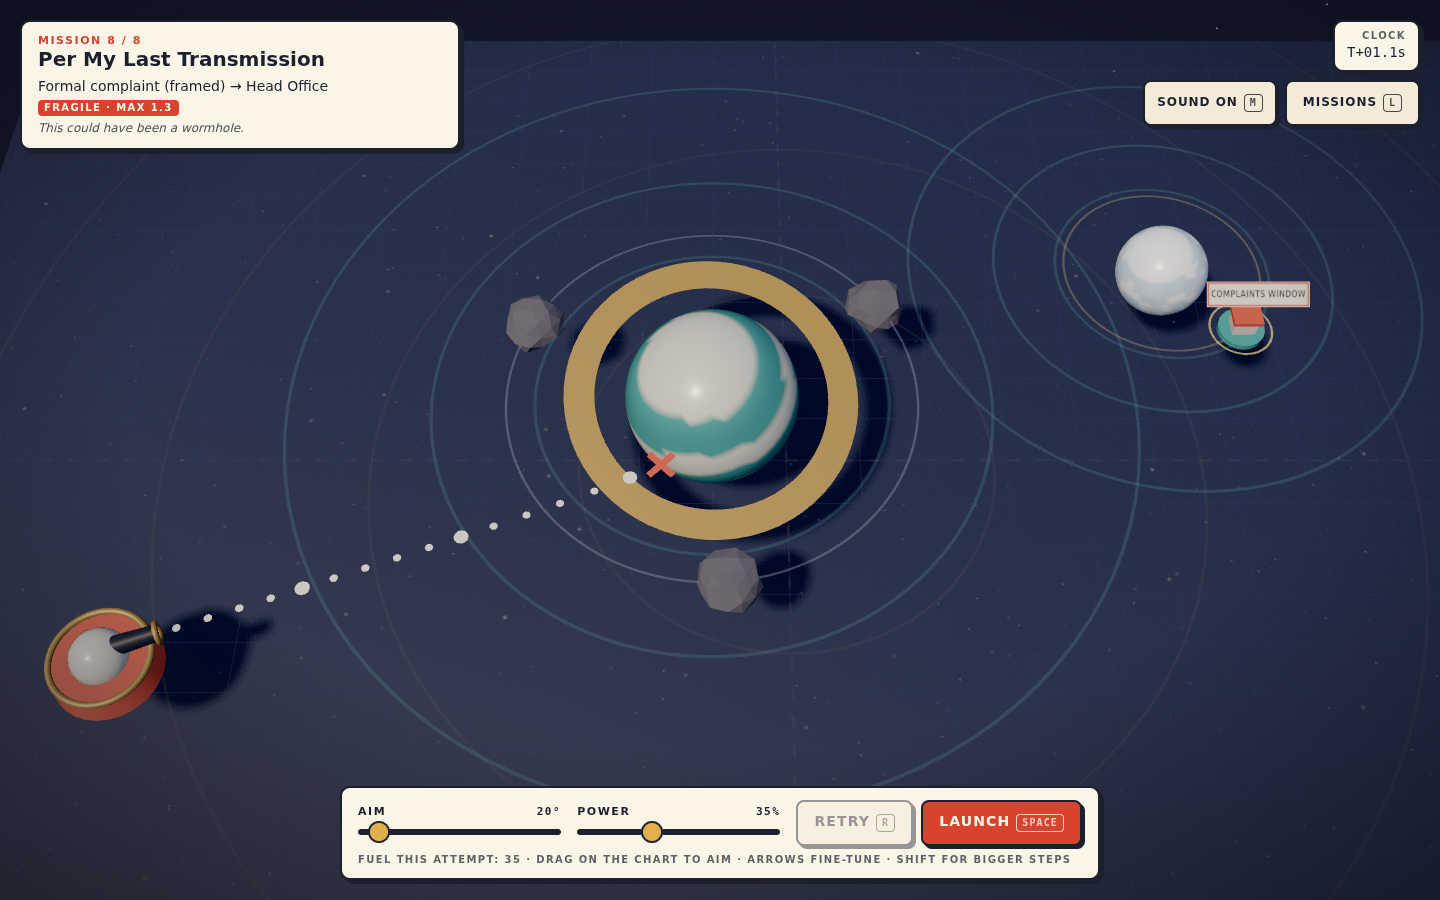
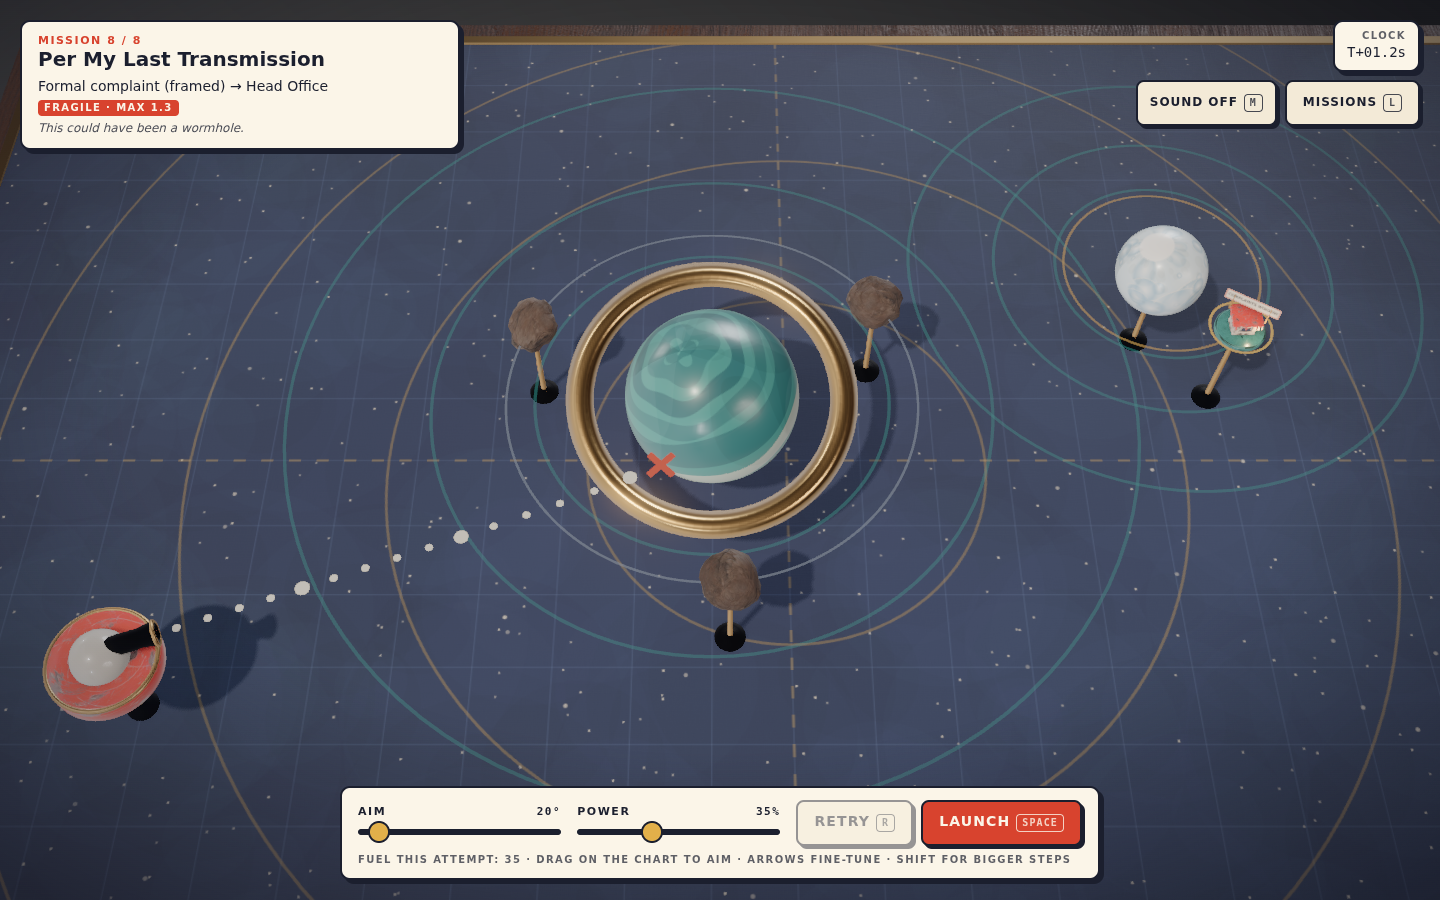
README: refreshed desktop, phone and gameplay GIF (disposal none, 3.9 MB) in the new look; texture and HDRI credits
Evidence: docs/readme/*, docs/visual/AUDIT.md (after scorecard).

Claude-Session: https://claude.ai/code/session_013AQ9bzk1jDAoJvVWVVpk5r

diff --git a/README.md b/README.md
@@ -64,7 +64,7 @@ Three.js 0.186 (no React Three Fiber) · TypeScript (strict) · React 19 for the
 - **Deterministic orbital flight.** Planets, moons and docks ride analytic orbits. The parcel is integrated at a fixed 120 Hz step, and the world clock counts whole ticks, so the same inputs always produce the same flight. Retry restarts the clock, which makes every attempt reproducible.
 - **Honest path prediction.** The guide, the brake ghost and the real flight all call the same `step()` function. A unit test asserts that the prediction matches the flight to the bit.
 - **Solver-verified missions.** `scripts/solve.ts` grid-searches launch timing, angle, power and brake moment for each mission. Every mission ships with a reference route that the tests fly, and an end-to-end Playwright test delivers mission 1 through the real UI.
-- **Procedural miniature.** Every planet, cannon, parcel and café is built in code: enamel clearcoat materials, AgX tone mapping, one key light and a hemisphere light.
+- **One physically based lighting model.** A CC0 studio HDRI, prefiltered to a PMREM, lights everything and is also the (blurred) backdrop. There is one key light with fitted, texel-snapped shadows. AgX is applied once in the output pass. GTAO grounds contact, bloom is limited to the two things that actually glow (each carries a real light), and SMAA smooths edges. Phones get a lighter tier. Materials are chipped enamel and powder-coat scans, glazed ceramic planets with a clearcoat, and brass orrery stands, so nothing floats.
 
 ## Run it locally
 
@@ -80,7 +80,22 @@ Code map: `src/game/` pure rules and state (tested) · `src/scene/` three.js min
 
 ## Credits
 
-All geometry, textures, graphics and README art are generated procedurally in code or hand-written SVG. Type uses the system font stack.
+Geometry, the planet glazes, the printed star chart and the README art are made in code or hand-written SVG. Type uses the system font stack. Every shipped asset is listed with its source URL, author, licence, retrieval date, processing and sha256 in [`assets.manifest.json`](assets.manifest.json).
+
+### Textures and lighting
+
+| Asset | Used for | Source | Author | Licence |
+| --- | --- | --- | --- | --- |
+| Painted Metal 004 | Postal-red enamel: depot drum, dock awning | https://ambientcg.com/view?id=PaintedMetal004 | ambientCG | CC0 |
+| Painted Metal 012 | Cream and teal enamel: café hut, dock pad | https://ambientcg.com/view?id=PaintedMetal012 | ambientCG | CC0 |
+| Metal 027 | Powder-coated steel: cannon barrel, stand feet, crate | https://ambientcg.com/view?id=Metal027 | ambientCG | CC0 |
+| Cardboard 001 | The battered parcel | https://ambientcg.com/view?id=Cardboard001 | ambientCG | CC0 |
+| Kitchen Wood | Chart-table frame | https://polyhaven.com/a/kitchen_wood | Poly Haven | CC0 |
+| Rough Linen | Weave of the star-chart sheet | https://polyhaven.com/a/rough_linen | Poly Haven | CC0 |
+| Rock Face 03 | Debris boulders | https://polyhaven.com/a/rock_face_03 | Poly Haven | CC0 |
+| Studio Small 09 (HDRI) | Image-based lighting and the blurred backdrop | https://polyhaven.com/a/studio_small_09 | Sergej Majboroda (Poly Haven) | CC0 |
+
+The Poly Haven wood, linen and rock sets were copied from ODD TIDE, another project in the collection, with their records carried over. All textures ship as 1K (rock 512 px) WebP, with roughness and metalness packed into one map.
 
 ### Audio
 
